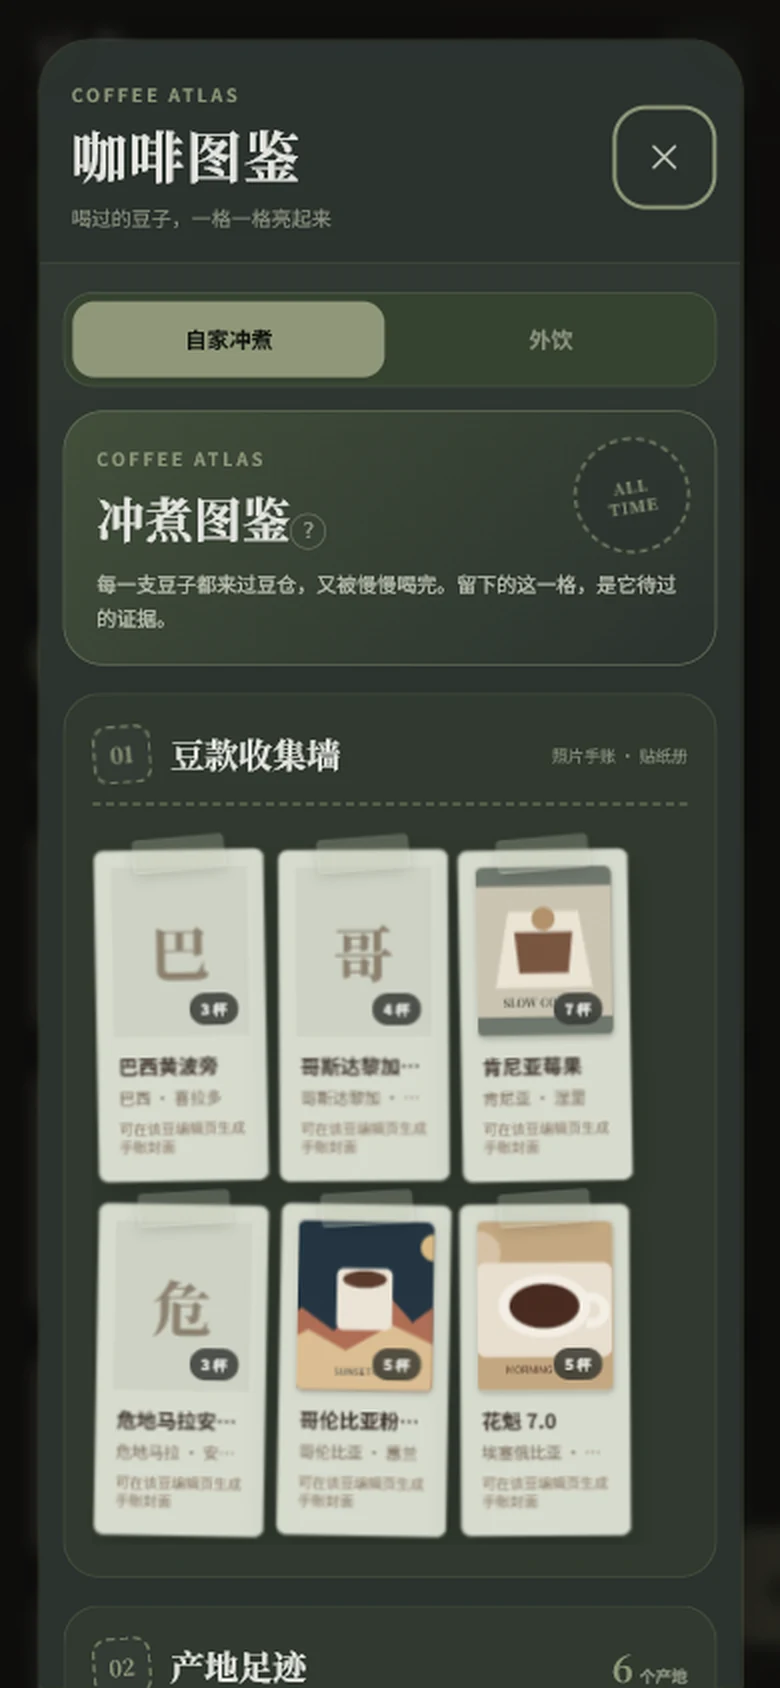
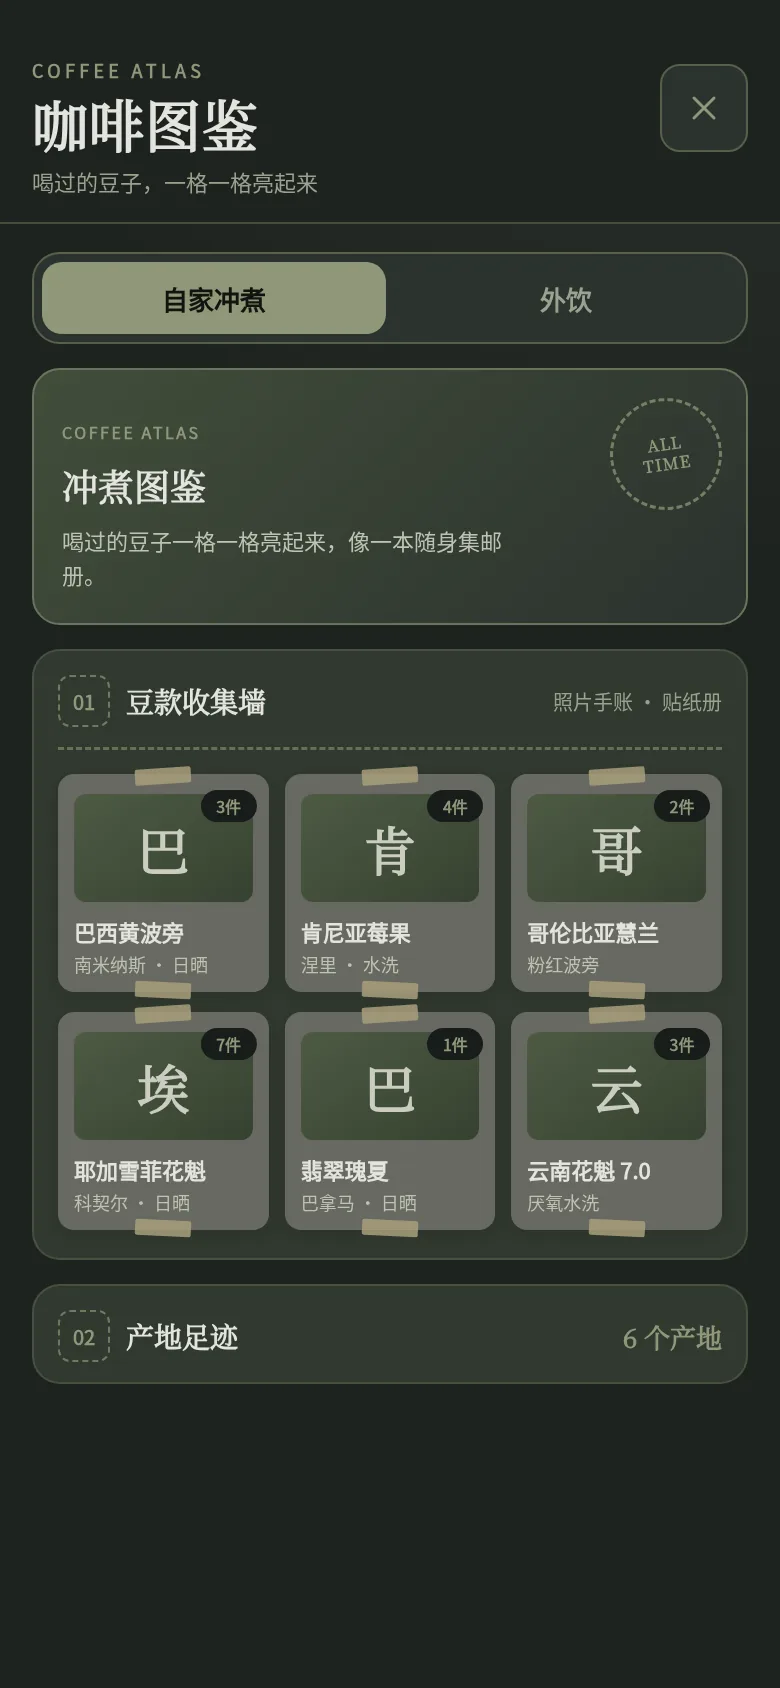
docs(landing): 用 3.0.5 现网截图替换落地页四主题预览图
无 FAB、顶栏操作与在饮/已归档/全部筛选对齐现网；附带 ?v=3.0.5 缓存戳。

diff --git a/landing/index.html b/landing/index.html
@@ -75,11 +75,11 @@
         <div class="device device-lg">
           <div class="carousel" id="heroCarousel" aria-label="应用界面轮播">
             <div class="carousel-track" id="heroTrack">
-              <img class="carousel-slide" src="assets/screens/dark-roast/home.webp" alt="首页豆仓列表" width="390" height="844" />
-              <img class="carousel-slide" src="assets/screens/dark-roast/records.webp" alt="饮用记录与风味雷达图" width="390" height="844" />
-              <img class="carousel-slide" src="assets/screens/dark-roast/calendar.webp" alt="咖啡日历" width="390" height="844" />
-              <img class="carousel-slide" src="assets/screens/dark-roast/insights.webp" alt="咖啡回顾与口味雷达图" width="390" height="844" />
-              <img class="carousel-slide" src="assets/screens/dark-roast/assist.webp" alt="冲煮辅助计时" width="390" height="844" />
+              <img class="carousel-slide" src="assets/screens/dark-roast/home.webp?v=3.0.5" alt="首页豆仓列表" width="390" height="844" />
+              <img class="carousel-slide" src="assets/screens/dark-roast/records.webp?v=3.0.5" alt="饮用记录与风味雷达图" width="390" height="844" />
+              <img class="carousel-slide" src="assets/screens/dark-roast/calendar.webp?v=3.0.5" alt="咖啡日历" width="390" height="844" />
+              <img class="carousel-slide" src="assets/screens/dark-roast/insights.webp?v=3.0.5" alt="咖啡回顾与口味雷达图" width="390" height="844" />
+              <img class="carousel-slide" src="assets/screens/dark-roast/assist.webp?v=3.0.5" alt="冲煮辅助计时" width="390" height="844" />
             </div>
           </div>
         </div>
@@ -215,7 +215,7 @@
         </div>
         <figure class="device calendar-insights-visual">
           <div class="calendar-insights-screen shot" data-screen="insights">
-            <img class="shot-img" src="assets/screens/dark-roast/insights.webp"
+            <img class="shot-img" src="assets/screens/dark-roast/insights.webp?v=3.0.5"
                  alt="回顾页面，展示咖啡日常摘要与口味雷达图 / Review screen with a coffee rhythm summary and flavor radar"
                  width="390" height="844" loading="lazy" decoding="async" />
           </div>
@@ -238,27 +238,27 @@
       </header>
       <div class="screens-rail" id="themeScreens">
         <figure class="device">
-          <div class="shot" data-screen="home"><img class="shot-img" src="assets/screens/dark-roast/home.webp" alt="首页豆仓列表" width="390" height="844" /></div>
+          <div class="shot" data-screen="home"><img class="shot-img" src="assets/screens/dark-roast/home.webp?v=3.0.5" alt="首页豆仓列表" width="390" height="844" /></div>
           <figcaption data-i18n data-zh="首页豆仓" data-en="Bean vault">首页豆仓</figcaption>
         </figure>
         <figure class="device">
-          <div class="shot" data-screen="records"><img class="shot-img" src="assets/screens/dark-roast/records.webp" alt="饮用记录与风味雷达图" width="390" height="844" /></div>
+          <div class="shot" data-screen="records"><img class="shot-img" src="assets/screens/dark-roast/records.webp?v=3.0.5" alt="饮用记录与风味雷达图" width="390" height="844" /></div>
           <figcaption data-i18n data-zh="记录与雷达图" data-en="Logs & flavor radar">记录与雷达图</figcaption>
         </figure>
         <figure class="device">
-          <div class="shot" data-screen="calendar"><img class="shot-img" src="assets/screens/dark-roast/calendar.webp" alt="咖啡日历" width="390" height="844" /></div>
+          <div class="shot" data-screen="calendar"><img class="shot-img" src="assets/screens/dark-roast/calendar.webp?v=3.0.5" alt="咖啡日历" width="390" height="844" /></div>
           <figcaption data-i18n data-zh="咖啡日历" data-en="Coffee calendar">咖啡日历</figcaption>
         </figure>
         <figure class="device">
-          <div class="shot" data-screen="insights"><img class="shot-img" src="assets/screens/dark-roast/insights.webp" alt="咖啡回顾与口味雷达图" width="390" height="844" /></div>
+          <div class="shot" data-screen="insights"><img class="shot-img" src="assets/screens/dark-roast/insights.webp?v=3.0.5" alt="咖啡回顾与口味雷达图" width="390" height="844" /></div>
           <figcaption data-i18n data-zh="回顾与雷达图" data-en="Review & flavor radar">回顾与雷达图</figcaption>
         </figure>
         <figure class="device">
-          <div class="shot" data-screen="atlas"><img class="shot-img" src="assets/screens/dark-roast/atlas.webp" alt="咖啡图鉴与豆款收集墙" width="390" height="844" /></div>
+          <div class="shot" data-screen="atlas"><img class="shot-img" src="assets/screens/dark-roast/atlas.webp?v=3.0.5" alt="咖啡图鉴与豆款收集墙" width="390" height="844" /></div>
           <figcaption data-i18n data-zh="咖啡图鉴" data-en="Coffee atlas">咖啡图鉴</figcaption>
         </figure>
         <figure class="device">
-          <div class="shot" data-screen="assist"><img class="shot-img" src="assets/screens/dark-roast/assist.webp" alt="冲煮辅助计时" width="390" height="844" /></div>
+          <div class="shot" data-screen="assist"><img class="shot-img" src="assets/screens/dark-roast/assist.webp?v=3.0.5" alt="冲煮辅助计时" width="390" height="844" /></div>
           <figcaption data-i18n data-zh="冲煮辅助" data-en="Brew assistant">冲煮辅助</figcaption>
         </figure>
       </div>

diff --git a/landing/main.js b/landing/main.js
@@ -81,7 +81,7 @@
   // ----- theme preview switch (layered crossfade) -----
   function crossfade(shot, theme) {
     var screen = shot.getAttribute('data-screen');
-    var src = 'assets/screens/' + theme + '/' + screen + '.webp';
+    var src = 'assets/screens/' + theme + '/' + screen + '.webp?v=3.0.5';
     var images = shot.querySelectorAll('img');
     var cur = images.length ? images[images.length - 1] : null;
     Array.prototype.forEach.call(images, function (img) {
